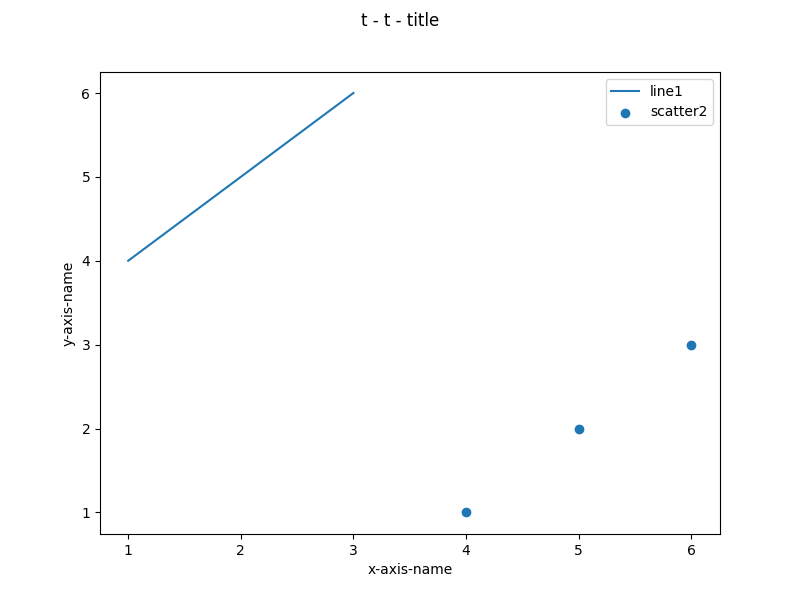
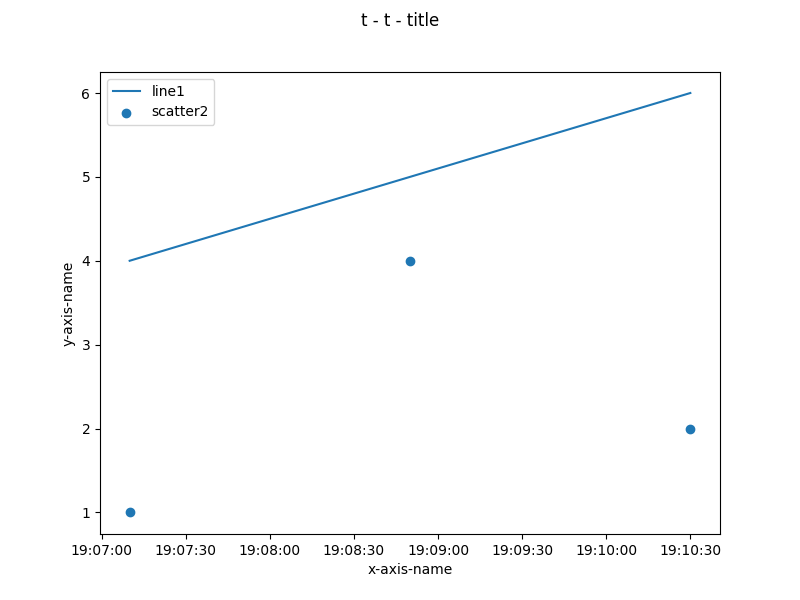
fix timestamp x-axis

diff --git a/vitro.cc b/vitro.cc
@@ -56,11 +56,12 @@ public:
 
     Py_DecRef(utcfromtimestamp);
     Py_DecRef(datetime);
+    Py_DecRef(datetime_module);
   }
 
   ~Timestamps() {
     for (PyObject* datetime : datetimes) {
-      Py_DECREF(datetime);
+      Py_DecRef(datetime);
     }
   }
 
@@ -143,9 +144,10 @@ Matplot::Matplot(const Figure& fig) {
 
       for (const auto& line : ax.lines) {
         PyObject* x;
+        std::unique_ptr<Timestamps> ts;
         if (ax.is_x_nanotimestamps) {
-          Timestamps t(line.xs);
-          x = vector_to_ndarray(t.datetimes);
+          ts = std::make_unique<Timestamps>(line.xs);
+          x = vector_to_ndarray(ts->datetimes);
         } else {
           x = vector_to_ndarray(line.xs);
         }
@@ -164,12 +166,14 @@ Matplot::Matplot(const Figure& fig) {
         Py_DecRef(args);
         Py_DecRef(kwargs);
         Py_DecRef(plot);
+        Py_DecRef(pyline);
       }
       for (const auto& scatter : ax.scatters) {
         PyObject* x;
+        std::unique_ptr<Timestamps> ts;
         if (ax.is_x_nanotimestamps) {
-          Timestamps t(scatter.xs);
-          x = vector_to_ndarray(t.datetimes);
+          ts = std::make_unique<Timestamps>(scatter.xs);
+          x = vector_to_ndarray(ts->datetimes);
         } else {
           x = vector_to_ndarray(scatter.xs);
         }
@@ -188,12 +192,14 @@ Matplot::Matplot(const Figure& fig) {
         Py_DecRef(args);
         Py_DecRef(kwargs);
         Py_DecRef(plot);
+        Py_DecRef(pyscatter);
       }
       for (const auto& area : ax.areas) {
         PyObject* x;
+        std::unique_ptr<Timestamps> ts;
         if (ax.is_x_nanotimestamps) {
-          Timestamps t(area.xs);
-          x = vector_to_ndarray(t.datetimes);
+          ts = std::make_unique<Timestamps>(area.xs);
+          x = vector_to_ndarray(ts->datetimes);
         } else {
           x = vector_to_ndarray(area.xs);
         }
@@ -208,6 +214,7 @@ Matplot::Matplot(const Figure& fig) {
         Py_DecRef(x);
         Py_DecRef(y1);
         Py_DecRef(y2);
+        Py_DecRef(pyarea);
       }
       PyObject_CallMethod(pyax, "legend", nullptr);
       Py_DecRef(pyax);

diff --git a/example.cc b/example.cc
@@ -5,10 +5,11 @@ void plot1() {
   fig.title = "t - t - title";
 
   auto& ax = fig.axes(1, 1);
-  ax.line("line1", {1, 2, 3}, {4, 5, 6});
-  ax.scatter("scatter2", {4, 5, 6}, {1, 2, 3});
+  ax.line("line1", {1583521630'000'000'000, 1583521730'000'000'000, 1583521830'000'000'000}, {4, 5, 6});
+  ax.scatter("scatter2", {1583521630'000'000'000, 1583521730'000'000'000, 1583521830'000'000'000}, {1, 4, 2});
   ax.xlabel = "x-axis-name";
   ax.ylabel = "y-axis-name";
+  ax.is_x_nanotimestamps = true;
 
   Matplot matplot(fig);
   matplot.save("plot1.png");
@@ -26,7 +27,6 @@ void plot2() {
   auto& ax2 = fig.axes(1, 2);
   ax2.xlabel = "x-axis-name";
   ax2.ylabel = "y-axis-name";
-
   ax2.line("line3", {10, 20, 30}, {4, 3, 1});
   ax2.line("line4", {30, 15, 5}, {4, 2, 2.5});
   auto& scatter = ax2.scatter("scatter4", {40, 50, 60, 70}, {2, 5, 0, 10});
